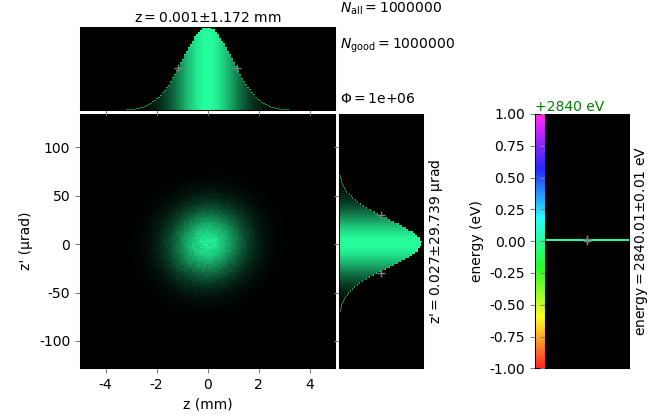
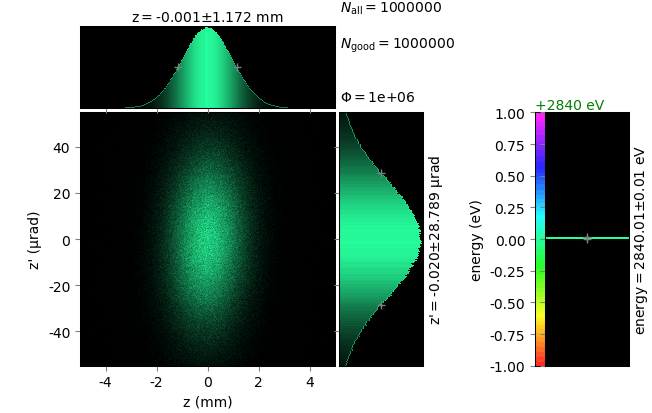
revised asymmetric crystals with added docs and tests (2)

diff --git a/tests/raycing/test_asymmetric_xtal.py b/tests/raycing/test_asymmetric_xtal.py
@@ -1,14 +1,19 @@
 # -*- coding: utf-8 -*-
 u"""
-Reflectivity from asymmetrically cut crystal
-~~~~~~~~~~~~~~~~~~~~~~~~~~~~~~~~~~~~~~~~~~~~
+Reflection from asymmetrically cut crystal
+~~~~~~~~~~~~~~~~~~~~~~~~~~~~~~~~~~~~~~~~~~
 
 A monochromatic beam of *E* = 2840 eV is diffracted by a Si111 crystal with
-Θ\ :sub:`B`\ = 44.132 deg, α = -20.054 deg, b = -0.453
+θ\ :sub:`B`\ = 44.132 deg and α = -20.054 deg, which results in *b* = -0.453.
 
 The phase space volume in the beam before and after the crystal is indeed
 invariant, whereas the linear and angular sizes have scaled with the ratio
-equal to *b* or 1/*b*. The product FWHM(z)×FWHM(z') = 139 nmrad in both cases.
+equal to *b* or 1/*b*. The product FWHM(z)×FWHM(z') = 135 nmrad in both cases.
+Notice also the deviation of the diffracted beam direction from the exact
+departure angle 2θ\ :sub:`B` seen on the exit screen which is put normally to
+2θ\ :sub:`B` (i.e. z'=0 at the exact departure at 2θ\ :sub:`B`\ ).
+The ray-traced deviation -106 µrad is close to the calculated refractive shift
+-105 µrad.
 
 .. imagezoom:: _images/0-zzP-source,alpha=-0.350.png
 .. imagezoom:: _images/2-zzP-afterXtal,alpha=-0.350.png
@@ -65,6 +70,9 @@ def build_beamline():
         beamLine, center=[0, 2000+p, p*np.tan(2*bragg)],
         x=[1, 0, 0], z=[0, -np.sin(2*bragg), np.cos(2*bragg)])
 
+    beamLine.dbragg = crystalSi.get_refractive_correction(Ec, alpha=alpha)*1e6
+    print(u'refractive shift = {0} µrad'.format(beamLine.dbragg))
+
     return beamLine
 
 
@@ -80,7 +88,7 @@ def run_process(beamLine):
 rrun.run_process = run_process
 
 
-def define_plots():
+def define_plots(beamLine):
     plots = []
 
     plot = xrtplot.XYCPlot(
@@ -93,8 +101,9 @@ def define_plots():
     plot = xrtplot.XYCPlot(
         beam=r"beamScreenSource",
         aspect='auto',
-        xaxis=xrtplot.XYCAxis(r"z", "mm", limits=[-5, 5]),
-        yaxis=xrtplot.XYCAxis(r"z'", u"µrad"))
+        xaxis=xrtplot.XYCAxis(r"z", "mm", limits=[-5, 5], bins=256, ppb=1),
+        yaxis=xrtplot.XYCAxis(r"z'", u"µrad", limits=[-55, 55],
+                              bins=256, ppb=1))
     plot.saveName = ["0-zzP-source,alpha={0:.3f}.png".format(alpha)]
     plotPhaseSpaceBefore = plot
     plots.append(plot)
@@ -113,11 +122,13 @@ def define_plots():
     plot.saveName = ["2-xz-afterXtal,alpha={0:.3f}.png".format(alpha)]
     plots.append(plot)
 
+    ac = beamLine.dbragg
     plot = xrtplot.XYCPlot(
         beam=r"beamScreenXtal",
         aspect='auto',
-        xaxis=xrtplot.XYCAxis(r"z", "mm", limits=[-5, 5]),
-        yaxis=xrtplot.XYCAxis(r"z'", u"µrad"))
+        xaxis=xrtplot.XYCAxis(r"z", "mm", limits=[-5, 5], bins=256, ppb=1),
+        yaxis=xrtplot.XYCAxis(r"z'", u"µrad", limits=[ac-55, ac+55],
+                              bins=256, ppb=1))
     plot.saveName = ["2-zzP-afterXtal,alpha={0:.3f}.png".format(alpha)]
     plotPhaseSpaceAfter = plot
     plots.append(plot)
@@ -143,7 +154,7 @@ def main():
     beamLine = build_beamline()
     E0 = list(beamLine.source.energies)[0]
     beamLine.alignE = E0
-    plots, plotPhaseSpaceBefore, plotPhaseSpaceAfter = define_plots()
+    plots, plotPhaseSpaceBefore, plotPhaseSpaceAfter = define_plots(beamLine)
     xrtrun.run_ray_tracing(
         plots=plots, repeats=1, beamLine=beamLine,
         afterScript=afterScript,

diff --git a/xrt/backends/raycing/materials.py b/xrt/backends/raycing/materials.py
@@ -1494,11 +1494,13 @@ class Crystal(Material):
         if beamInDotNormal is not None:
 #            beamInDotNormal[beamInDotNormal > 1] = 1 - 1e-16
             alpha = np.arcsin(beamInDotNormal) - thetaB
+        if alpha is not None:
+            beamInDotNormal = np.sin(thetaB + alpha)
         pm = -1 if self.geom.startswith('Bragg') else 1
         beamOutDotNormal = pm * np.sin(thetaB - alpha)
         b = beamInDotNormal / beamOutDotNormal
         F0, _, _ = self.get_structure_factor(E, needFhkl=False)
-        return self.chiToFd2 * F0.real * (1 - 1/b)
+        return -self.chiToFd2 * F0.real * (b - 1/b) * np.tan(thetaB)
 
 
 class CrystalFcc(Crystal):

diff --git a/tests/raycing/test_backcattering_xtal_Shvydko.py b/tests/raycing/test_backcattering_xtal_Shvydko.py
@@ -5,11 +5,11 @@ Reflectivity from highly asymmetric crystal in backscattering
 
 A test for the optical scheme from [ShvydkoPRL2006]_, Fig 3.
 
-.. imagezoom:: _images/shvydko-rc.png
+.. imagezoom:: _images/shvydko-rc-ver.png
 
 The blue curve was ray-traced by xrt. The dotted curve is a reconstruction from
 Fig. 4 of [ShvydkoPRL2006]_. The dispersion rate was calculated from a linear
-fit to the energy-angle line and is similar to that reported in
+fit to the energy-angle line (orange) and is similar to that reported in
 [ShvydkoPRL2006]_ as 8.5 µrad/meV.
 
 .. [ShvydkoPRL2006] Yu. V. Shvyd’ko, M. Lerche, U. Kuetgens, H. D. Rüter,
